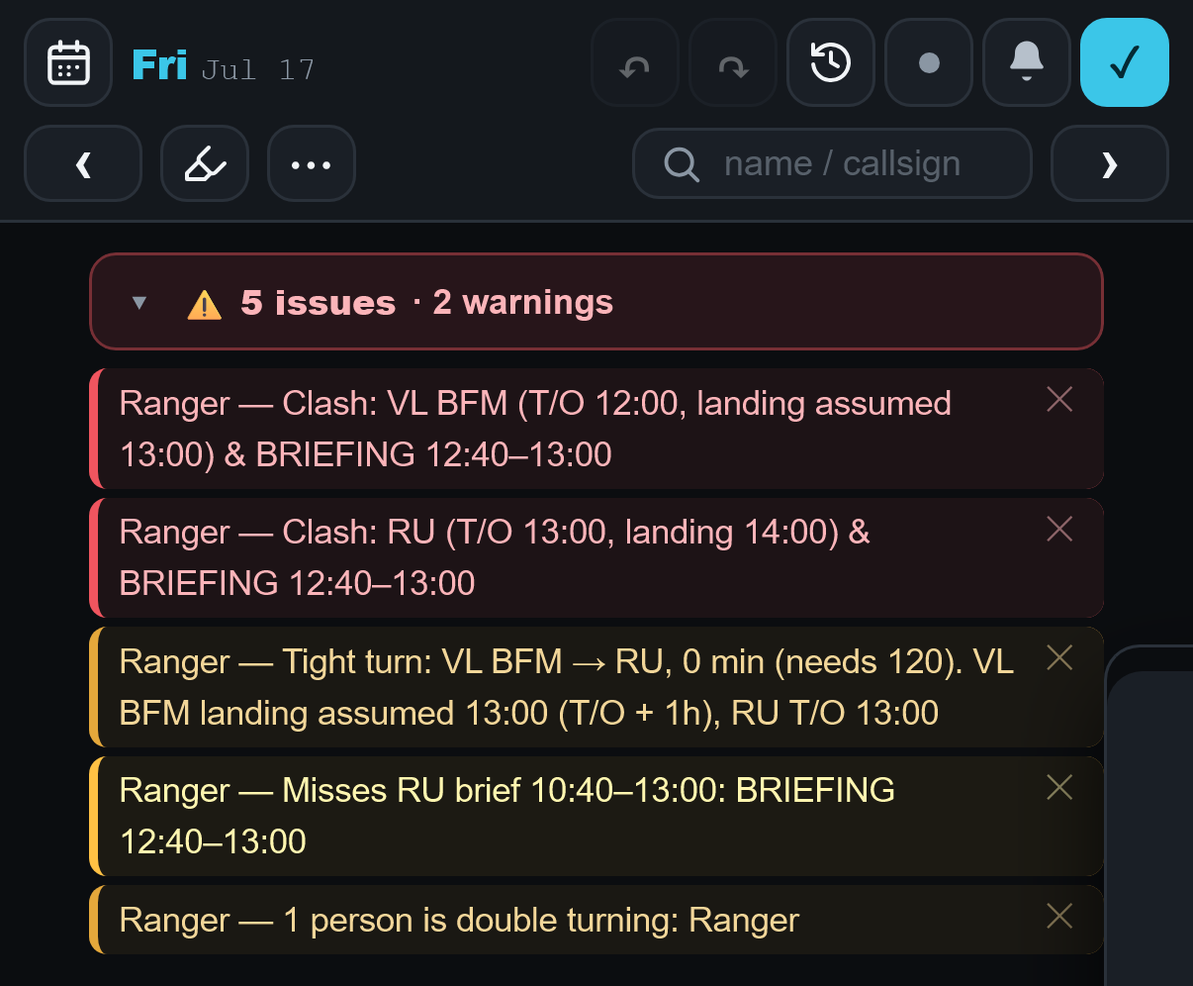
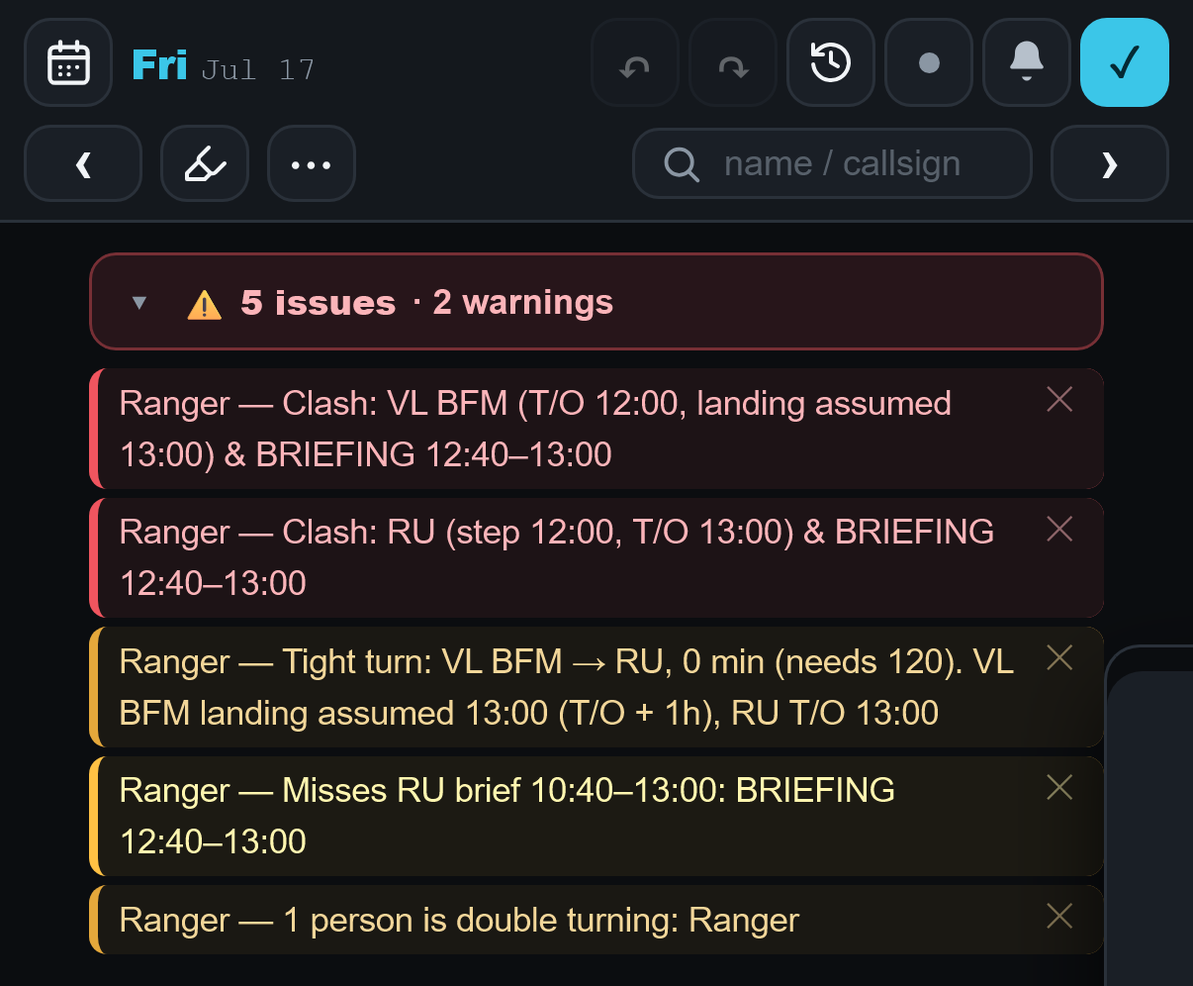
Warn words: the clash rows redrawn with the step and dekit times, the page republished; the handoff block ([WARN-WORDS-STANDALONE], D2058, D2059)

Changed region(s): [[0.092, 0.5291, 0.8284, 0.6225]]

diff --git a/raptor-port/docs/mock/2026-11-15-warn-words/page.html b/raptor-port/docs/mock/2026-11-15-warn-words/page.html
@@ -65,10 +65,10 @@ td.old{color:var(--muted)}
 </header>
 
 <div class="first" id="look">
-<h2>Look at this first: four questions</h2>
-<p class="note">Each has my recommendation. Tap a question to jump to its pictures. Answer "as recommended" or by number.</p>
+<h2>Look at this first: three questions left</h2>
+<p class="note">The first is answered. The other three each have my recommendation. Tap one to jump to its pictures. Answer "as recommended" or by number.</p>
 <ol class="qs">
-<li><a href="#friday"><b>A flight in a clash: T/O only, or T/O and landing?</b></a><span class="rec">Recommended: both, as in "Clash: RU (T/O 13:00, landing 14:00) &amp; BRIEFING 12:40–13:00".</span><span class="why">The line you liked showed T/O only. With the landing, a clash at the landing end of a flight reads on its own too. It adds about three words, on clash lines only.</span></li>
+<li><a href="#friday"><b>Answered: a clash line shows the end of the flight that causes the clash.</b></a><span class="rec">Your ruling of 15 Nov: the step time or the dekit time, as set on the Logic page.</span><span class="why">"Clash: RU (step 12:00, T/O 13:00) &amp; BRIEFING 12:40–13:00" · "Clash: VL BFM (landing 13:30, dekit to 14:00) &amp; Appointment 13:40–14:30". Where the item falls during the flight itself, the T/O and the landing. The clash pictures below are redrawn this way.</span></li>
 <li><a href="#turns"><b>"Tight turning" renamed "Tight crew rest"?</b></a><span class="rec">Recommended: yes.</span><span class="why">It is the amber line about tomorrow's crew rest being short at the usual report time. Today its name reads like the same-day "Tight turn".</span></li>
 <li><a href="#names"><b>Should the short names of the checks follow the new labels?</b></a><span class="rec">Recommended: yes, in the same build.</span><span class="why">The app has a short name for each kind of warning, shown where warnings are counted by kind. Today a clash is called "Conflict — two events at once" there. One thing, one name.</span></li>
 <li><a href="#turns"><b>The crew-rest line keeps your order of 22 Aug, with "needs 12h" added?</b></a><span class="rec">Recommended: yes.</span><span class="why">Yesterday's end, then when rest clears, then what breaks it, then the shortfall. Only the wording is shorter and the 12h is said.</span></li>
@@ -93,7 +93,7 @@ td.old{color:var(--muted)}
 <div class="tbl"><table>
 <tr><th>Today</th><th>After</th></tr>
 <tr><td class="old"><i>Not raised today: a blank landing counts as the take-off.</i></td><td>Ranger — Clash: VL BFM (T/O 12:00, landing assumed 13:00) &amp; BRIEFING 12:40–13:00</td></tr>
-<tr><td class="old">Ranger — RU &amp; BRIEFING clash</td><td>Ranger — Clash: RU (T/O 13:00, landing 14:00) &amp; BRIEFING 12:40–13:00</td></tr>
+<tr><td class="old">Ranger — RU &amp; BRIEFING clash</td><td>Ranger — Clash: RU (step 12:00, T/O 13:00) &amp; BRIEFING 12:40–13:00</td></tr>
 <tr><td class="old">Ranger — Tight turn VL BFM→ RU: 60 min take-off→next T/O, no landing typed (needs 120 min — threshold 120, dekit+step 30+60)</td><td>Ranger — Tight turn: VL BFM → RU, 0 min (needs 120). VL BFM landing assumed 13:00 (T/O + 1h), RU T/O 13:00</td></tr>
 <tr><td class="old">Ranger — Not enough time to attend the VL BFM debrief — BRIEFING sits inside 12:00–14:00 (take-off + 2h, no landing typed)</td><td><i>Goes away. With the landing assumed at 13:00 the debrief is 13:00–15:00, and the BRIEFING ends at 13:00.</i></td></tr>
 <tr><td class="old">Ranger — No time for the RU flight brief — BRIEFING sits inside 10:40–13:00 (brief 10:40)</td><td>Ranger — Misses RU brief 10:40–13:00: BRIEFING 12:40–13:00</td></tr>
@@ -103,7 +103,7 @@ td.old{color:var(--muted)}
 <div class="box">
 <p><b>Where these differ from the five lines you liked:</b></p>
 <ul class="plain">
-<li><b>The clash lines</b> add the landing after the T/O (question 1).</li>
+<li><b>The clash lines</b> show why it is a clash: RU's step at 12:00 (one hour before T/O, the Logic page's step setting), and VL BFM's assumed landing.</li>
 <li><b>The tight turn</b> ends with ", RU T/O 13:00", so both times of the turn are in the line. "0 min" explains itself; "45 min" would not.</li>
 <li><b>"Misses VL BFM debrief … : RU T/O 13:00" cannot happen.</b> The app never raises a missed debrief against another flight (that is the tight turn's job), and on this day the line goes away. Where one is raised, it names what is in the way: <span class="ex">Misses VL BFM debrief 13:00–15:00 (landing assumed): MEETING 13:30–14:00</span>.</li>
 </ul>
@@ -111,7 +111,7 @@ td.old{color:var(--muted)}
 <details class="desk"><summary>The same list on a desktop</summary><div class="pair desktop"><figure class="shot"><figcaption><span class="chip c-today">Today</span> <span class="kind">the real app</span></figcaption><a class="zoom" href="a1-today-desktop.png"><img src="a1-today-desktop.png" width="1582" height="748" style="max-width:min(100%, 791px)" alt="Today — the real app" loading="lazy"></a></figure><figure class="shot"><figcaption><span class="chip c-new">Proposed</span> <span class="kind">drawn on the real list</span></figcaption><a class="zoom" href="a2-after-desktop.png"><img src="a2-after-desktop.png" width="1582" height="748" style="max-width:min(100%, 791px)" alt="Proposed — drawn on the real list" loading="lazy"></a></figure></div></details>
 </section>
 
-<section id="clashes"><h2>Clashes (red)</h2><p class="note">Every clash starts "Clash:" and gives both items with their times. Today most give neither.</p><div class="pair phone"><figure class="shot"><figcaption><span class="chip c-today">Today</span> <span class="kind">drawn on the real list</span></figcaption><a class="zoom" href="b1-clashes-today-phone.png"><img src="b1-clashes-today-phone.png" width="1206" height="1230" style="max-width:min(100%, 402px)" alt="Today — drawn on the real list" loading="lazy"></a></figure><figure class="shot"><figcaption><span class="chip c-new">Proposed</span> <span class="kind">drawn on the real list</span></figcaption><a class="zoom" href="b1-clashes-proposed-phone.png"><img src="b1-clashes-proposed-phone.png" width="1206" height="1437" style="max-width:min(100%, 402px)" alt="Proposed — drawn on the real list" loading="lazy"></a></figure></div><details class="words" open><summary>The words, row by row</summary><ol><li class="w hard"><p class="t"><span class="k">Today</span> Ranger — RU &amp; BRIEFING clash</p><p class="p"><span class="k">Proposed</span> Ranger — Clash: RU (T/O 13:00, landing 14:30) &amp; BRIEFING 12:40–13:00</p></li><li class="w hard"><p class="t"><span class="k">Today</span> Ranger — SC AM &amp; OFT 1 clash</p><p class="p"><span class="k">Proposed</span> Ranger — Clash: SC AM 07:00–13:00 &amp; OFT 1 10:00–11:30</p></li><li class="w hard"><p class="t"><span class="k">Today</span> Ranger — Ranger is in two seats on VL BFM at once</p><p class="p"><span class="k">Proposed</span> Ranger — Clash: in two seats on VL BFM (T/O 12:00) at once</p></li><li class="w hard"><p class="t"><span class="k">Today</span> Ranger — Ranger is on two items called SODB at once</p><p class="p"><span class="k">Proposed</span> Ranger — Clash: two items both called SODB, 07:45–08:00 &amp; 07:50–08:10</p></li><li class="w hard"><p class="t"><span class="k">Today</span> Ranger — Ranger is on AVALON DUTY (07:00–15:00) and also on OFT 1 (10:00–11:30)</p><p class="p"><span class="k">Proposed</span> Ranger — Clash: AVALON DUTY 07:00–15:00 &amp; OFT 1 10:00–11:30</p></li><li class="w hard"><p class="t"><span class="k">Today</span> Ranger — Ranger is standing SC SPARE (SC AM 07:00–13:00) and also on OFT 1 (10:00–11:30)</p><p class="p"><span class="k">Proposed</span> Ranger — Clash: SC SPARE (SC AM 07:00–13:00) &amp; OFT 1 10:00–11:30</p></li><li class="w hard"><p class="t"><span class="k">Today</span> Ranger — Appointment clashes with VL BFM — reason: dental</p><p class="p"><span class="k">Proposed</span> Ranger — Clash: VL BFM (T/O 12:00, landing 13:30) &amp; Appointment 12:30–13:30. Reason: dental</p></li><li class="w hard"><p class="t"><span class="k">Today</span> Ranger — Appointment but tasked — AVALON duty — reason: dental</p><p class="p"><span class="k">Proposed</span> Ranger — Clash: AVALON DUTY 07:00–15:00 &amp; Appointment 12:30–13:30. Reason: dental</p></li></ol></details></section>
+<section id="clashes"><h2>Clashes (red)</h2><p class="note">Every clash starts "Clash:" and gives both items with their times. A flight shows the end that causes the clash: its step (first row), its dekit (seventh row), or its T/O and landing. Today most lines give no times at all.</p><div class="pair phone"><figure class="shot"><figcaption><span class="chip c-today">Today</span> <span class="kind">drawn on the real list</span></figcaption><a class="zoom" href="b1-clashes-today-phone.png"><img src="b1-clashes-today-phone.png" width="1206" height="1230" style="max-width:min(100%, 402px)" alt="Today — drawn on the real list" loading="lazy"></a></figure><figure class="shot"><figcaption><span class="chip c-new">Proposed</span> <span class="kind">drawn on the real list</span></figcaption><a class="zoom" href="b1-clashes-proposed-phone.png"><img src="b1-clashes-proposed-phone.png" width="1206" height="1437" style="max-width:min(100%, 402px)" alt="Proposed — drawn on the real list" loading="lazy"></a></figure></div><details class="words" open><summary>The words, row by row</summary><ol><li class="w hard"><p class="t"><span class="k">Today</span> Ranger — RU &amp; BRIEFING clash</p><p class="p"><span class="k">Proposed</span> Ranger — Clash: RU (step 12:00, T/O 13:00) &amp; BRIEFING 12:40–13:00</p></li><li class="w hard"><p class="t"><span class="k">Today</span> Ranger — SC AM &amp; OFT 1 clash</p><p class="p"><span class="k">Proposed</span> Ranger — Clash: SC AM 07:00–13:00 &amp; OFT 1 10:00–11:30</p></li><li class="w hard"><p class="t"><span class="k">Today</span> Ranger — Ranger is in two seats on VL BFM at once</p><p class="p"><span class="k">Proposed</span> Ranger — Clash: in two seats on VL BFM (T/O 12:00) at once</p></li><li class="w hard"><p class="t"><span class="k">Today</span> Ranger — Ranger is on two items called SODB at once</p><p class="p"><span class="k">Proposed</span> Ranger — Clash: two items both called SODB, 07:45–08:00 &amp; 07:50–08:10</p></li><li class="w hard"><p class="t"><span class="k">Today</span> Ranger — Ranger is on AVALON DUTY (07:00–15:00) and also on OFT 1 (10:00–11:30)</p><p class="p"><span class="k">Proposed</span> Ranger — Clash: AVALON DUTY 07:00–15:00 &amp; OFT 1 10:00–11:30</p></li><li class="w hard"><p class="t"><span class="k">Today</span> Ranger — Ranger is standing SC SPARE (SC AM 07:00–13:00) and also on OFT 1 (10:00–11:30)</p><p class="p"><span class="k">Proposed</span> Ranger — Clash: SC SPARE (SC AM 07:00–13:00) &amp; OFT 1 10:00–11:30</p></li><li class="w hard"><p class="t"><span class="k">Today</span> Ranger — Appointment clashes with VL BFM — reason: dental</p><p class="p"><span class="k">Proposed</span> Ranger — Clash: VL BFM (landing 13:30, dekit to 14:00) &amp; Appointment 13:40–14:30. Reason: dental</p></li><li class="w hard"><p class="t"><span class="k">Today</span> Ranger — Appointment but tasked — AVALON duty — reason: dental</p><p class="p"><span class="k">Proposed</span> Ranger — Clash: AVALON DUTY 07:00–15:00 &amp; Appointment 12:30–13:30. Reason: dental</p></li></ol></details></section>
 <section id="standby"><h2>On standby and also on something else (amber)</h2><p class="note">The label says what is wrong: the item overlaps a standby shift, or sits between his in-time and the shift's start.</p><div class="pair phone"><figure class="shot"><figcaption><span class="chip c-today">Today</span> <span class="kind">drawn on the real list</span></figcaption><a class="zoom" href="b2-standby-today-phone.png"><img src="b2-standby-today-phone.png" width="1206" height="837" style="max-width:min(100%, 402px)" alt="Today — drawn on the real list" loading="lazy"></a></figure><figure class="shot"><figcaption><span class="chip c-new">Proposed</span> <span class="kind">drawn on the real list</span></figcaption><a class="zoom" href="b2-standby-proposed-phone.png"><img src="b2-standby-proposed-phone.png" width="1206" height="786" style="max-width:min(100%, 402px)" alt="Proposed — drawn on the real list" loading="lazy"></a></figure></div><details class="words" open><summary>The words, row by row</summary><ol><li class="w adv"><p class="t"><span class="k">Today</span> Ranger — Ranger is on SC AM (07:00–13:00) and also down for LECTURE</p><p class="p"><span class="k">Proposed</span> Ranger — Overlaps standby: LECTURE 09:00–10:00 &amp; SC AM 07:00–13:00</p></li><li class="w adv"><p class="t"><span class="k">Today</span> Ranger — Ranger is on SC AM (07:00–13:00) and also down for Meeting</p><p class="p"><span class="k">Proposed</span> Ranger — Overlaps standby: Meeting 09:00–10:00 &amp; SC AM 07:00–13:00</p></li><li class="w adv"><p class="t"><span class="k">Today</span> Ranger — Ranger reports 06:00 for SC AM — MEETING (06:30–07:00) cuts into the in-time window before the 07:00 start</p><p class="p"><span class="k">Proposed</span> Ranger — Busy before SC AM: MEETING 06:30–07:00 is between his 06:00 in-time and the 07:00 start</p></li></ol></details></section>
 <section id="leave"><h2>On leave, downchit, away (red)</h2><p class="note">The labels are the names you gave these checks: "Downchit + planned", "On leave + planned". What he is planned on now carries its times.</p><div class="pair phone"><figure class="shot"><figcaption><span class="chip c-today">Today</span> <span class="kind">drawn on the real list</span></figcaption><a class="zoom" href="b3-leave-today-phone.png"><img src="b3-leave-today-phone.png" width="1206" height="1335" style="max-width:min(100%, 402px)" alt="Today — drawn on the real list" loading="lazy"></a></figure><figure class="shot"><figcaption><span class="chip c-new">Proposed</span> <span class="kind">drawn on the real list</span></figcaption><a class="zoom" href="b3-leave-proposed-phone.png"><img src="b3-leave-proposed-phone.png" width="1206" height="1335" style="max-width:min(100%, 402px)" alt="Proposed — drawn on the real list" loading="lazy"></a></figure></div><details class="words" open><summary>The words, row by row</summary><ol><li class="w hard"><p class="t"><span class="k">Today</span> Ranger — Downchit but planned to fly VL BFM — reason: flu</p><p class="p"><span class="k">Proposed</span> Ranger — Downchit + planned: VL BFM (T/O 12:00). Reason: flu</p></li><li class="w hard"><p class="t"><span class="k">Today</span> Ranger — On leave but planned to fly VL BFM — reason: family</p><p class="p"><span class="k">Proposed</span> Ranger — On leave + planned: VL BFM (T/O 12:00). Reason: family</p></li><li class="w hard"><p class="t"><span class="k">Today</span> Ranger — Downchit but tasked — AVALON duty — reason: flu</p><p class="p"><span class="k">Proposed</span> Ranger — Downchit + planned: AVALON DUTY 07:00–15:00. Reason: flu</p></li><li class="w hard"><p class="t"><span class="k">Today</span> Ranger — On leave but tasked — OFT 1</p><p class="p"><span class="k">Proposed</span> Ranger — On leave + planned: OFT 1 10:00–11:30</p></li><li class="w hard"><p class="t"><span class="k">Today</span> Ranger — ATT C but on AVALON DUTY — medically down — reason: flu</p><p class="p"><span class="k">Proposed</span> Ranger — Downchit + planned: AVALON DUTY 07:00–15:00 (ATT C). Reason: flu</p></li><li class="w hard"><p class="t"><span class="k">Today</span> Ranger — Overseas Duty but on AVALON DUTY — overseas</p><p class="p"><span class="k">Proposed</span> Ranger — Overseas + planned: AVALON DUTY 07:00–15:00</p></li><li class="w hard"><p class="t"><span class="k">Today</span> Ranger — ATT C but standing SC SPARE — medically down, SC AM — reason: flu</p><p class="p"><span class="k">Proposed</span> Ranger — Downchit + planned: SC SPARE on SC AM 07:00–13:00 (ATT C). Reason: flu</p></li><li class="w hard"><p class="t"><span class="k">Today</span> Ranger — On leave but tasked — this duty row</p><p class="p"><span class="k">Proposed</span> Ranger — On leave + planned: this duty row (no times yet)</p></li></ol></details></section>
 <section id="brief"><h2>Brief and debrief (amber)</h2><p class="note">"Misses", whose brief or debrief, its window, then what is in the way. New: each thing in the way carries its own times (today only its name).</p><div class="pair phone"><figure class="shot"><figcaption><span class="chip c-today">Today</span> <span class="kind">drawn on the real list</span></figcaption><a class="zoom" href="b4-brief-today-phone.png"><img src="b4-brief-today-phone.png" width="1206" height="1230" style="max-width:min(100%, 402px)" alt="Today — drawn on the real list" loading="lazy"></a></figure><figure class="shot"><figcaption><span class="chip c-new">Proposed</span> <span class="kind">drawn on the real list</span></figcaption><a class="zoom" href="b4-brief-proposed-phone.png"><img src="b4-brief-proposed-phone.png" width="1206" height="1176" style="max-width:min(100%, 402px)" alt="Proposed — drawn on the real list" loading="lazy"></a></figure></div><details class="words" open><summary>The words, row by row</summary><ol><li class="w adv"><p class="t"><span class="k">Today</span> Ranger — No time for the RU flight brief — BRIEFING sits inside 10:40–13:00 (brief 10:40)</p><p class="p"><span class="k">Proposed</span> Ranger — Misses RU brief 10:40–13:00: BRIEFING 12:40–13:00</p></li><li class="w adv"><p class="t"><span class="k">Today</span> Ranger — Not enough time to attend the VL BFM debrief — MEETING sits inside 14:30–16:30 (land + 2h)</p><p class="p"><span class="k">Proposed</span> Ranger — Misses VL BFM debrief 14:30–16:30: MEETING 15:00–16:00</p></li><li class="w adv"><p class="t"><span class="k">Today</span> Ranger — Not enough time to attend the VL BFM debrief — MEETING sits inside 12:00–14:00 (take-off + 2h, no landing typed)</p><p class="p"><span class="k">Proposed</span> Ranger — Misses VL BFM debrief 13:00–15:00 (landing assumed): MEETING 13:30–14:00</p></li><li class="w adv"><p class="t"><span class="k">Today</span> Ranger — No time for the OFT 1 brief — SODB sits inside 09:45–10:00</p><p class="p"><span class="k">Proposed</span> Ranger — Misses OFT 1 brief 09:45–10:00: SODB 09:30–09:50</p></li><li class="w adv"><p class="t"><span class="k">Today</span> Ranger — No time for the OFT 1 debrief — MEETING sits inside 11:30–12:00</p><p class="p"><span class="k">Proposed</span> Ranger — Misses OFT 1 debrief 11:30–12:00: MEETING 11:45–12:30</p></li><li class="w adv"><p class="t"><span class="k">Today</span> Ranger — No time for the VL BFM flight brief — BRIEFING, Meeting sits inside 09:40–12:00 (brief 09:40)</p><p class="p"><span class="k">Proposed</span> Ranger — Misses VL BFM brief 09:40–12:00: BRIEFING 10:00–10:30, Meeting 11:00–11:30</p></li></ol></details></section>

diff --git a/HANDOFF.md b/HANDOFF.md
@@ -29,11 +29,12 @@ the later merge keeps both (D78).
 - **The cold read is in and applied (15 Nov 26):** 26 clear, 35 clear with a small point, 11 unclear (mostly table fragments); 24 proposed lines changed — the proposal's §3a lists each, old → new, and what was considered and left; the reader's full result: `raptor-port/docs/superpowers/briefs/2026-11-15-warn-words-cold-read.md`.
 - **The pictures are made and the page is with him:** https://claude.ai/artifact/BhYUNddBhjL8Nn3MTymZ5a (an Artifact page, private to him; to change it from another chat pass that address as `url`). Its source and every picture: `raptor-port/docs/mock/2026-11-15-warn-words/` (`page.html`, written by `gen-page.mjs` from `manifest.json`; the drawing scripts `ww-lib.mjs`, `a-friday.mjs`, `b-families.mjs`, `c-logic.mjs`, `d-pending.mjs`, `e-names.mjs`). Real: Ranger's Friday today, the Logic strip today, the pending list today, the checks' names today; every "proposed" picture and both sides of the family pictures are drawn on the real list (example rows set onto Monday's list). What the pictures changed is the proposal's §3b: Ranger's Friday confirmed in the app (a 13:00 landing typed gives exactly the proposal's five rows; the missed-debrief line goes away); every row a whole line; the pending list's new line sits inside the man's own row ("Still a full day of OIL. It counts from 05:10, not 05:00."); time ranges never break across lines (a build point); the checks' short names for question 3 (16 names, shown on Insights' "Conflicts by type", View-only Sched's list and the Logic page).
 - **Not done, said to him:** the design skill's words pass (`impeccable clarify`, D819) was not run on the proposal — the writing guide's tests and the cold read were; run it at the build if he wants it. The page was checked from disk at 400 and 1280 wide (no sideways scroll, every picture loads, tap-to-zoom opens and closes), not on his iPhone.
-- **His first answer, D2058 (15 Nov 26, about 22:30):** a clash line between a flight and another item shows the end of the flight that causes the clash — the step time or the dekit time, worked from the Logic page's settings ("Clash: RU (step 12:00, T/O 13:00) & BRIEFING 12:40–13:00"); it answers question 1. The proposal's §3c has the three shapes and what is open for the build. **In hand when written:** the picture helper redrawing Ranger's Friday row 2 and the clash family's rows 1 and 7 (brief: the scratch folder's `redraw-4.md`), then `gen-page.mjs` edited (question 1 shown as answered) and the page republished at the same address — if a later chat finds the page's clash rows still showing "T/O 13:00, landing 14:00" for RU, that redraw did not finish: redo it from §3c.
+- **His first answer, D2058 (15 Nov 26, about 22:30):** a clash line between a flight and another item shows the end of the flight that causes the clash — the step time or the dekit time, worked from the Logic page's settings ("Clash: RU (step 12:00, T/O 13:00) & BRIEFING 12:40–13:00"); it answers question 1. The proposal's §3c has the three shapes and what is open for the build. Done: Ranger's Friday row 2 and the clash family's rows 1 and 7 redrawn (brief `redraw-4.md` in the mock folder), question 1 shown as answered, the page republished at the same address (about 22:50).
+- **D2059 (15 Nov 26):** his rule — from step to dekit a man on a flight can have nothing else, and anything else there is a clash. Built so for ground and programme items, sims, duty posts and requests. TWO POINTS PUT TO HIM, awaiting his word (the proposal's §3d): (a) two flights whose step and dekit overlap, air times apart, raise the amber tight turn, not a red clash — recommended: keep; (b) a standby line that flies is compared on its START to END with no step or dekit added — recommended: ask him how a standby launch is really run before changing it. Chat about 91% full when written: the build belongs in a fresh chat.
 - **Next:** his answers to questions 2–4. Then, on his approval of the words: bring `main` in (D2057's row is on `main` through pull request 782 once that has merged — this branch does not have it yet), record his answers as rulings, and build — the words (the engine's warning texts, the checks' names if question 3 is yes, the Logic note, the pending list's line), then D2046 (the assumed landing, a Logic setting starting at 60 minutes), D2053 (Insights and the long day) and D2055 (a standby shift with no END); red-first, the robustness doctrine, a FULL-sized check (OIL is touched), reads by Astra and a fresh, blind Opus reader; the build's notes are the proposal's §7 and §3b (hides keyed on a clash's two items — D2001; the parity test; the other places that print the same sentences). A fresh chat is the right place for the build: this one is about 81% full.
 - **Questions waiting for him (on the page, each with its pictures):** (1) a flight in a clash shows T/O only or T/O and landing — recommended both; (2) "Tight turning" (tomorrow's crew rest short at the usual report) renamed "Tight crew rest" — recommended yes; (3) the checks' short names follow the new labels ("Conflict — two events at once" → "Clash", the table in §3b) — recommended yes; (4) the crew-rest line keeps his order of 22 Aug 26 with "needs 12h" added — recommended yes.
 - **Branch:** `claude/warn-words-standalone`, from `main` at `4e14f7a27`; no pull request yet (opened when the build starts).
-- **Rulings:** D2057, D2058 · **Walk:** none yet (nothing built) · **Reads owed:** none · **Next chat number:** 83 (D1744)
+- **Rulings:** D2057, D2058, D2059 · **Walk:** none yet (nothing built) · **Reads owed:** none · **Next chat number:** 83 (D1744)
 <!-- /now -->
 <!-- now:claude/rules-check-batch2 -->
 ### CHAT 81 — THE NIGHT OF 15 Nov 26 (his `/overnight 12`, reply "Low go" at 01:41; until about 13:40, the last hour for the report) — job 1 DONE (the rules check's small batch, FULL check closed); job 2 next — written 15 Nov 26 ~03:10 — verify before use

diff --git a/raptor-port/docs/mock/2026-11-15-warn-words/redraw-4.md b/raptor-port/docs/mock/2026-11-15-warn-words/redraw-4.md
@@ -1,0 +1,22 @@
+# Redraw 4 — the clash lines show the end of the flight that causes the clash (his ruling D2058)
+
+Work in the scratch folder as before (same file names, overwrite; manifest updated; serve the existing build on 4391,
+stop it by port; no build, no git). Time ranges stay unbroken as in redraw 2.
+
+Only PROPOSED rows change; "today" pictures are untouched except where said.
+
+## A2 (a2-after, phone and desktop)
+- Row 2 — P: `Ranger — Clash: RU (step 12:00, T/O 13:00) & BRIEFING 12:40–13:00`
+- Row 1 stays: `Ranger — Clash: VL BFM (T/O 12:00, landing assumed 13:00) & BRIEFING 12:40–13:00`
+
+## b1-clashes (phone)
+- Row 1 — P: `Ranger — Clash: RU (step 12:00, T/O 13:00) & BRIEFING 12:40–13:00` (today's row unchanged)
+- Row 7 — T: unchanged (`Ranger — Appointment clashes with VL BFM — reason: dental`)
+  P: `Ranger — Clash: VL BFM (landing 13:30, dekit to 14:00) & Appointment 13:40–14:30. Reason: dental`
+
+Keep "step 12:00, T/O 13:00" and "landing 13:30, dekit to 14:00" each on one line if the row allows (wrap each
+bracketed part in the same nowrap span as a time range only if that does not push the row to 4 lines on the phone;
+say which you did).
+
+## Hand back
+Files rewritten, the line count of each changed row on the phone and desktop, port 4391 free, no git command run.
